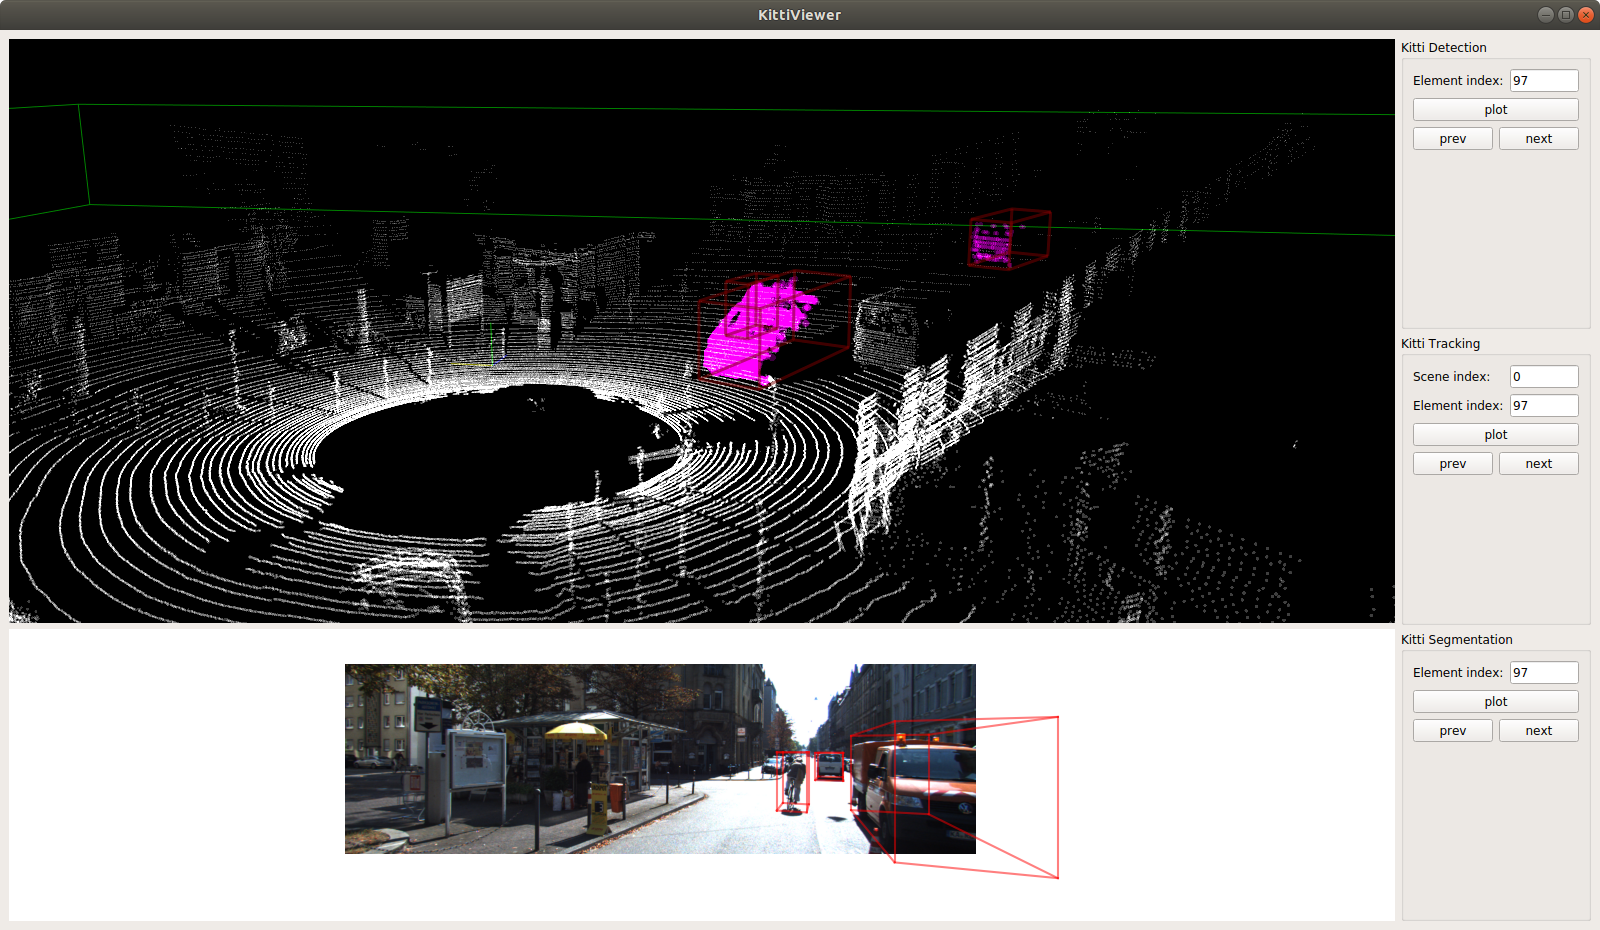
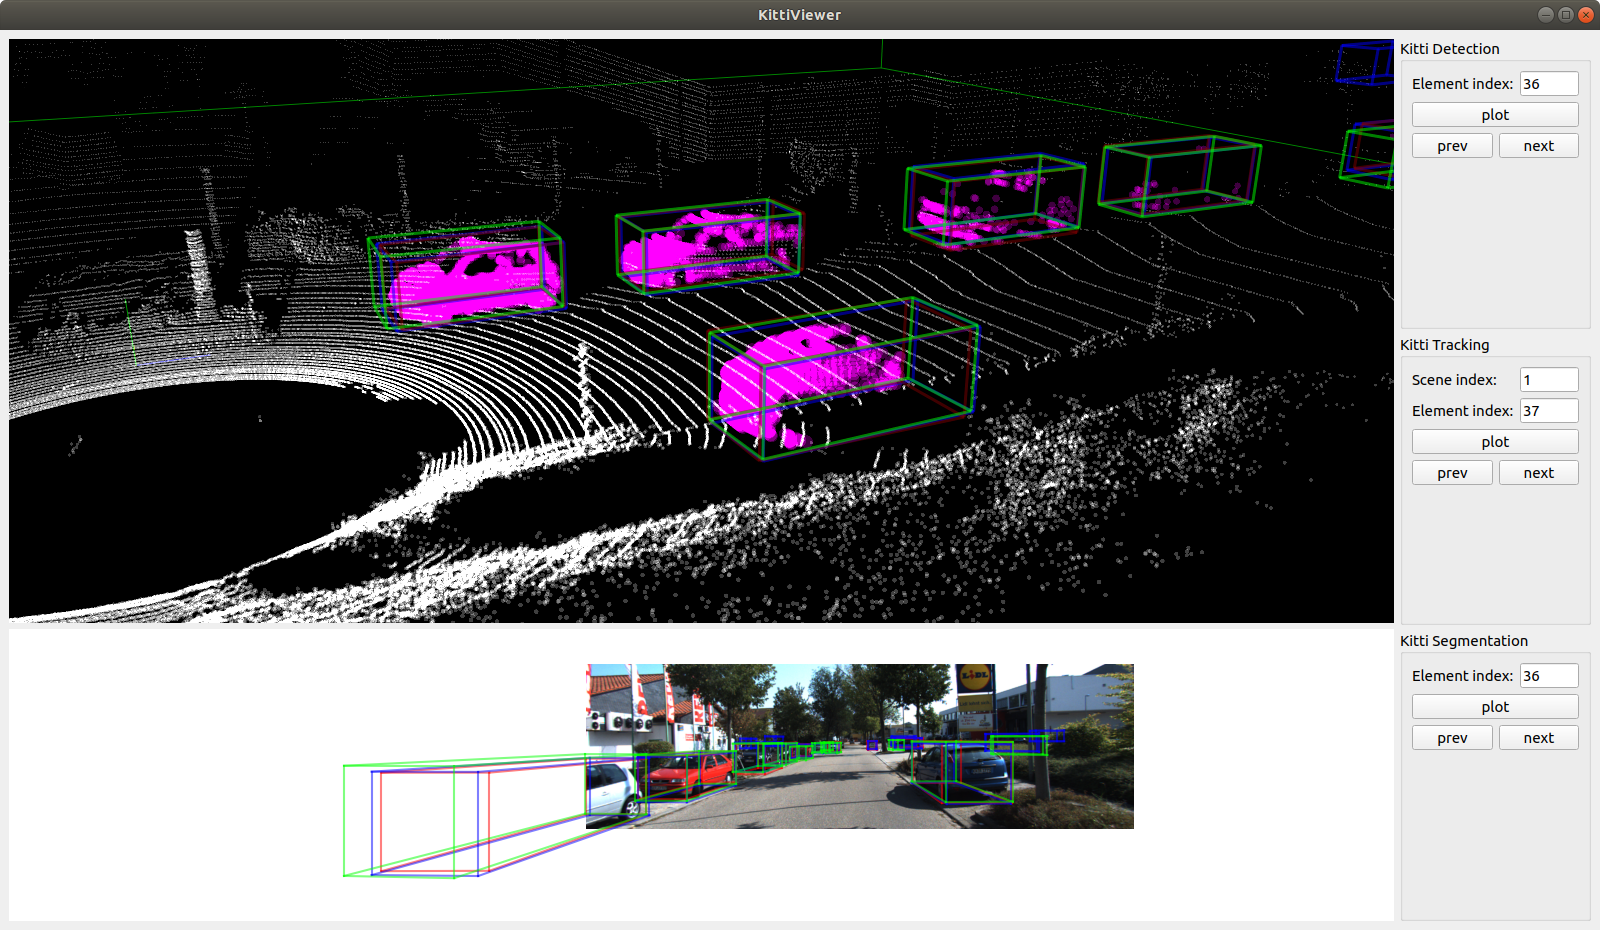
Add tracking compare

diff --git a/viewer.py b/viewer.py
@@ -1,7 +1,8 @@
 from core import (
     arrays_dict_element, compare_results_detection, compare_results_detection_methods,
+    compare_results_tracking, compare_results_tracking_methods,
     create_detection_kitti_info, create_segmentation_kitti_info,
-    create_tracking_kitti_info, get_compare_detection_annotation,
+    create_tracking_kitti_info, get_compare_detection_annotation, get_compare_tracking_annotation,
     get_kitti_detection_files,
     get_kitti_segmentation_files,
     get_kitti_tracking_files,
@@ -1046,6 +1047,39 @@ class KittiViewer(QMainWindow):
                     self.w_plt.ax, boxes_3d_p2,
                     colors=(color[0], color[1], color[2])
                 )
+
+    def draw_compare_tracking_in_image(self):
+        if self.kitti_info is None:
+            self.error("you must load infos and choose a existing image idx first.")
+            return
+        
+        if compare_results_tracking is None:
+            return
+
+        rect = self.kitti_info["calib/R0_rect"]
+        P2 = self.kitti_info["calib/P2"]
+        Trv2c = self.kitti_info["calib/Tr_velo_to_cam"]
+
+        for compare in self.kitti_info['compare']:
+
+            color = compare['color']
+            names = compare['names']
+            boxes = compare['boxes']
+            method_name = compare['method_name']
+            difficulty = compare['difficulty']
+
+            gt_boxes_camera = box_np_ops.box_lidar_to_camera(boxes, rect, Trv2c)
+            boxes_3d = box_np_ops.center_to_corner_box3d(
+                gt_boxes_camera[:, :3], gt_boxes_camera[:, 3:6], gt_boxes_camera[:, 6]
+            )
+            boxes_3d = boxes_3d.reshape((-1, 3))
+            boxes_3d_p2 = box_np_ops.project_to_image(boxes_3d, P2)
+            boxes_3d_p2 = boxes_3d_p2.reshape([-1, 8, 2])
+            if self.current_image is not None:
+                bbox_plot.draw_3d_bbox_in_ax(
+                    self.w_plt.ax, boxes_3d_p2,
+                    colors=(color[0], color[1], color[2])
+                )
     
     def draw_gt_in_image(self):
         if self.kitti_info is None:
@@ -1174,6 +1208,49 @@ class KittiViewer(QMainWindow):
             return
 
         if compare_results_detection is None:
+            return
+
+        for compare in self.kitti_info['compare']:
+
+            color = compare['color']
+            names = compare['names']
+            boxes = compare['boxes']
+            method_name = compare['method_name']
+            difficulty = compare['difficulty']
+
+            box_color = (color[0], color[1], color[2], self.w_config.get("GTBoxAlpha"))
+            diff = difficulty.tolist()
+            diff_to_name = {-1: "unk", 0: "easy", 1: "moderate", 2: "hard"}
+            diff_names = [diff_to_name[d] for d in diff]
+            label_idx = list(range(names.shape[0]))
+            labels_ = [
+                f"{i}:{l}, {d}" for i, l, d in zip(label_idx, names, diff_names)
+            ]
+            boxes_corners = box_np_ops.center_to_corner_box3d(
+                boxes[:, :3],
+                boxes[:, 3:6],
+                boxes[:, 6],
+                origin=[0.5, 0.5, 0],
+                axis=2,
+            )
+
+            self.w_pc_viewer.boxes3d("compare_boxes_" + method_name, boxes_corners, box_color, 3.0, 1.0)
+            if self.w_config.get("DrawGTLabels"):
+                self.w_pc_viewer.labels(
+                    "gt_boxes/labels",
+                    boxes_corners[:, 0, :],
+                    labels_,
+                    GLColor.Green,
+                    15,
+                )
+
+
+    def plot_compare_tracking_boxes_in_pointcloud(self):
+        if self.kitti_info is None:
+            self.error("you must load infos and choose a existing image idx first.")
+            return
+
+        if compare_results_tracking is None:
             return
 
         for compare in self.kitti_info['compare']:
@@ -1417,7 +1494,6 @@ class KittiViewer(QMainWindow):
                     'method_name': method_name,
                 })
 
-
     def load_info_tracking(self, group_idx, image_idx):
 
         if self.kitti_tracking_files is None:
@@ -1487,6 +1563,36 @@ class KittiViewer(QMainWindow):
         if self.w_config.get("EnableAugmentation"):
             self.data_augmentation()
 
+        self.kitti_info['compare'] = []
+
+        if compare_results_tracking is not None:
+
+            for method in compare_results_tracking_methods:
+                method_name = method['name']
+                method_color = method['color']
+                
+                annos = get_compare_tracking_annotation(
+                    method_name, group_idx, image_idx
+                )
+                labels = annos["name"]
+                num_obj = len([n for n in annos["name"] if n != "DontCare"])
+                # print(annos["group_ids"].shape)
+                dims = annos["dimensions"][:num_obj]
+                loc = annos["location"][:num_obj]
+                rots = annos["rotation_y"][:num_obj]
+                difficulty = annos["difficulty"][:num_obj]
+                names = labels[:num_obj]
+                boxes_camera = np.concatenate([loc, dims, rots[..., np.newaxis]], axis=1)
+                boxes = box_np_ops.box_camera_to_lidar(boxes_camera, rect, Trv2c)
+
+                self.kitti_info['compare'].append({
+                    'difficulty': difficulty,
+                    'names': names,
+                    'boxes': boxes,
+                    'color': method_color,
+                    'method_name': method_name,
+                })
+
     def load_info_segmentation(self, image_idx):
 
         if self.kitti_segmentation_files is None:
@@ -1539,8 +1645,10 @@ class KittiViewer(QMainWindow):
         self.load_info_tracking(group_idx, image_idx)
         self.plot_image()
         self.draw_gt_in_image()
+        self.draw_compare_tracking_in_image()
         self.w_plt.draw()  # this isn't supported in ubuntu.
         self.plot_pointcloud()
+        self.plot_compare_tracking_boxes_in_pointcloud()
         if self.w_config.get("DrawGTBoxes") or True:
             self.plot_gt_boxes_in_pointcloud()
         if self.w_config.get("DrawVoxels"):

diff --git a/core.py b/core.py
@@ -24,6 +24,12 @@ if 'compare_results_detection' in kitti_params:
 else:
     compare_results_detection = None
 
+if 'compare_results_tracking' in kitti_params:
+    compare_results_tracking = kitti_params['compare_results_tracking']
+    compare_results_tracking_methods = compare_results_tracking['methods']
+else:
+    compare_results_tracking = None
+
 detection_folders = kitti_params['folders']['detection']
 tracking_folders = kitti_params['folders']['tracking']
 selected_split = kitti_params['selected_split']
@@ -96,6 +102,7 @@ def get_kitti_tracking_files():
             ))
         else:
             groups = os.listdir(path) if os.path.isdir(path) else []
+            groups.sort()
             group_data = []
 
             for group in groups:
@@ -234,3 +241,75 @@ def get_compare_detection_annotation(method, index):
     )
 
     return label
+
+
+def get_compare_tracking_annotation(method, group, index):
+
+    annotation_format = compare_results_tracking['format']
+
+    if annotation_format == "ab3dmot":
+
+        type_by_number = {1:'Pedestrian', 2:'Car', 3:'Cyclist'}
+
+        file_name = (
+            compare_results_tracking['root'] + '/' + method + '/'
+            + selected_split + '/' + '{:04d}'.format(group) + '.txt'
+        )
+
+        lines = []
+
+        if os.path.exists(file_name):
+            lines = read_lines(file_name)
+            selected_lines = []
+
+            for i in range(len(lines)):
+                line = lines[i]
+                elements = line.replace('\n','').split(',')
+
+                if len(elements) <= 1:
+                    continue
+
+                (
+                    id, t, a1, a2, a3, a4,
+                    b, c1, c2, c3, c4, c5, c6,
+                    alpha, beta
+                ) = elements
+
+
+
+                new_elements = [
+                    type_by_number[int(t)],
+                    0,
+                    0,
+                    beta,
+                    a1,
+                    a2,
+                    a3,
+                    a4,
+                    c1,
+                    c2,
+                    c3,
+                    c4,
+                    c5,
+                    c6,
+                    alpha,
+                    b
+                ]
+
+                new_line = " ".join([str(a) for a in new_elements])
+
+                current_index = int(id)
+
+                if index == current_index:
+                    selected_lines.append(new_line)
+
+            
+            lines = selected_lines
+
+        label = get_label_anno(
+            lines
+        )
+
+        return label
+    else:
+        raise ValueError("Unsupported tracking format: " + annotation_format)

diff --git a/README.md b/README.md
@@ -95,6 +95,42 @@ All parameters are stored in `params.json`.
         },
     }
     ```
+
+- `compare_results_tracking` object describes how to display tracking results from different methods. All results must be stored inside the `root` folder and `methods[i]["name"]` subfolder in selected `format`. `color` field describes RGB color of 3d and 2d boxes.
+
+    ```json
+        "compare_results_detection": {
+
+            "root": "/data/sets/kitti_results_detection",
+            "format": "ab3dmot",
+            "methods": [
+
+                {
+                    "name": "method1",
+                    "color": [1.0, 0.0, 1.0]
+                },
+                {
+                    "name": "method2",
+                    "color": [1.0, 1.0, 0.0]
+                },
+                {
+                    "name": "method3",
+                    "color": [0.0, 0.0, 1.0]
+                }
+            ]
+        }
+    ```
+
+- Supported tracking annotations formats:
+    
+    1. `ab3dmot`: comma separated values in order:
+
+
+Frame | Type   | 2D BBOX (x1, y1, x2, y2)       | Score | 3D BBOX (h, w, l, x, y, z, rot_y) | Alpha  | 
+------|:------:|:------------------------------:|:----------:|:---------------------------------:|:-------------:
+ 0    | 2 (car) | 726.4, 173.69, 917.5, 315.1 |  13.85     | 1.56, 1.58, 3.48, 2.57, 1.57, 9.72, -1.56 | -1.82 | 
+
+
 ### Example
 
 ![Tracking example](./images/tracking.png)
